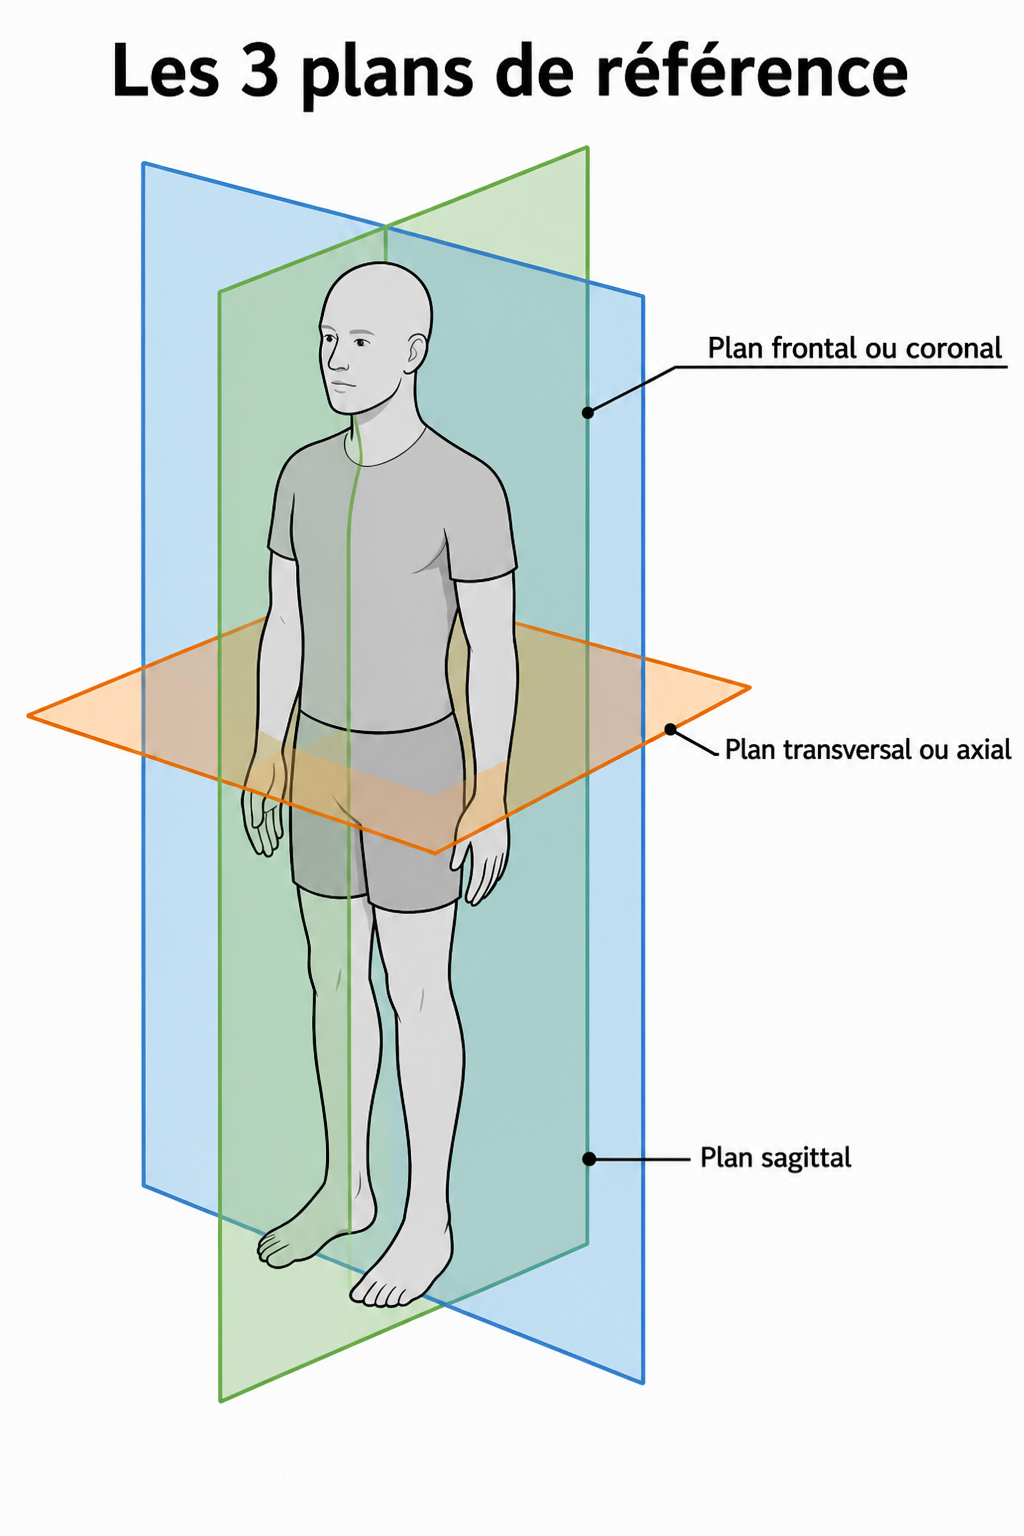
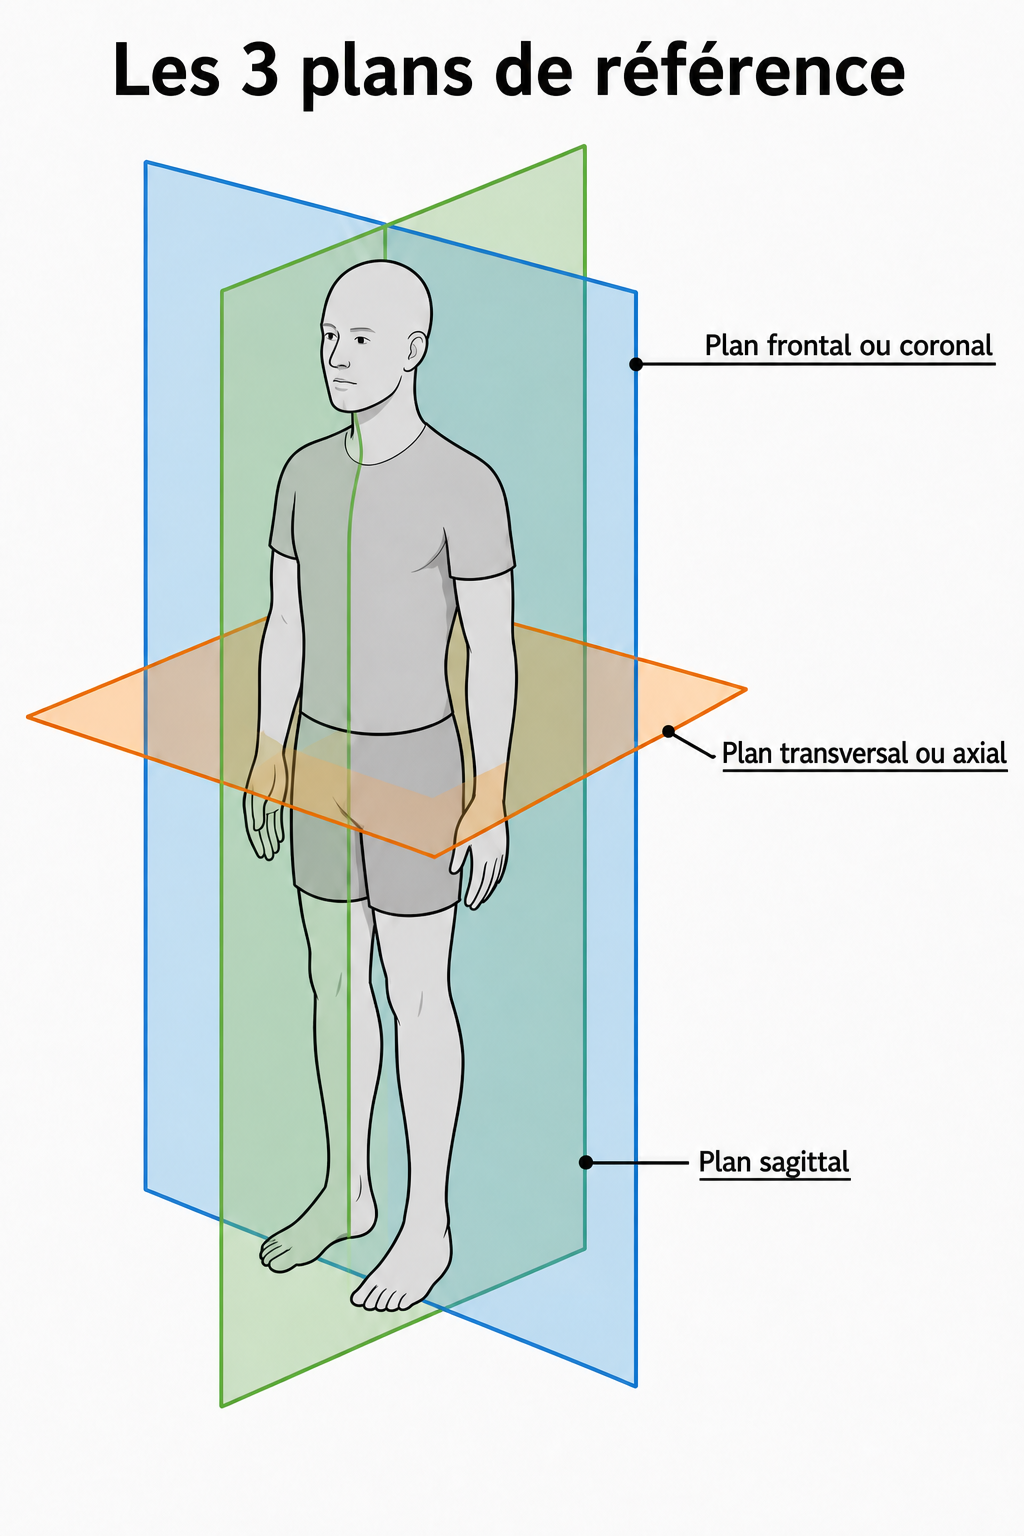
ch01: fix frontal plane arrow on 08 (rule2)

diff --git a/data/flash/ch01.js b/data/flash/ch01.js
@@ -63,7 +63,7 @@
     { id: "FC-ANAT-01-S05", chapter: "01", priority: "P2", kind: "schema", front: "Schéma — Morphologie interne", back: "Morphologie interne", frontImg: "matiere/anatomie/img/ch01/blank/05_morpho_interne_coeur.png", backImg: "matiere/anatomie/img/ch01/05_morpho_interne_coeur.png" },
     { id: "FC-ANAT-01-S06", chapter: "01", priority: "P2", kind: "schema", front: "Schéma — Régions du corps", back: "Régions du corps", frontImg: "matiere/anatomie/img/ch01/blank/06_regions_corps.png", backImg: "matiere/anatomie/img/ch01/06_regions_corps.png" },
     { id: "FC-ANAT-01-S07", chapter: "01", priority: "P2", kind: "schema", front: "Schéma — Cavités", back: "Cavités", frontImg: "matiere/anatomie/img/ch01/blank/07_cavites.png", backImg: "matiere/anatomie/img/ch01/07_cavites.png" },
-    { id: "FC-ANAT-01-S08", chapter: "01", priority: "P1", kind: "schema", front: "Schéma — Trois plans", back: "Trois plans", frontImg: "matiere/anatomie/img/ch01/blank/08_trois_plans.png?v=rule1", backImg: "matiere/anatomie/img/ch01/08_trois_plans.png?v=rule1" },
+    { id: "FC-ANAT-01-S08", chapter: "01", priority: "P1", kind: "schema", front: "Schéma — Trois plans", back: "Trois plans", frontImg: "matiere/anatomie/img/ch01/blank/08_trois_plans.png?v=rule2", backImg: "matiere/anatomie/img/ch01/08_trois_plans.png?v=rule2" },
     { id: "FC-ANAT-01-S09", chapter: "01", priority: "P1", kind: "schema", front: "Schéma — Coupe frontale", back: "Coupe frontale", frontImg: "matiere/anatomie/img/ch01/blank/09_coupe_frontale.png?v=rule1", backImg: "matiere/anatomie/img/ch01/09_coupe_frontale.png?v=rule1" },
     { id: "FC-ANAT-01-S10", chapter: "01", priority: "P1", kind: "schema", front: "Schéma — Coupe sagittale", back: "Coupe sagittale", frontImg: "matiere/anatomie/img/ch01/blank/10_coupe_sagittale.png?v=rule1", backImg: "matiere/anatomie/img/ch01/10_coupe_sagittale.png?v=rule1" },
     { id: "FC-ANAT-01-S11", chapter: "01", priority: "P1", kind: "schema", front: "Schéma — Coupe axiale", back: "Coupe axiale", frontImg: "matiere/anatomie/img/ch01/blank/11_coupe_axiale.png", backImg: "matiere/anatomie/img/ch01/11_coupe_axiale.png" },

diff --git a/matiere/anatomie/ch01.html b/matiere/anatomie/ch01.html
@@ -199,7 +199,7 @@
       <div class="callout hot"><strong>Souvent tombé</strong> Section la plus dense du cours.</div>
 
       <figure class="schema">
-        <img src="./img/ch01/08_trois_plans.png?v=rule1" alt="Trois plans" />
+        <img src="./img/ch01/08_trois_plans.png?v=rule2" alt="Trois plans" />
       </figure>
 
       <div class="label-quiz" data-labels='[["vertical"],["front","face ventrale"],["vertical"],["droite et gauche","d et g","2 moities"],["centre du corps","centre"],["egales mais non symetriques","egales non symetriques"],["axial","transversal"],["perpendiculaire a laxe vertical","perpendiculaire"],["dessous"],["gauche de l image","gauche de limage","a gauche","gauche"]]'>
